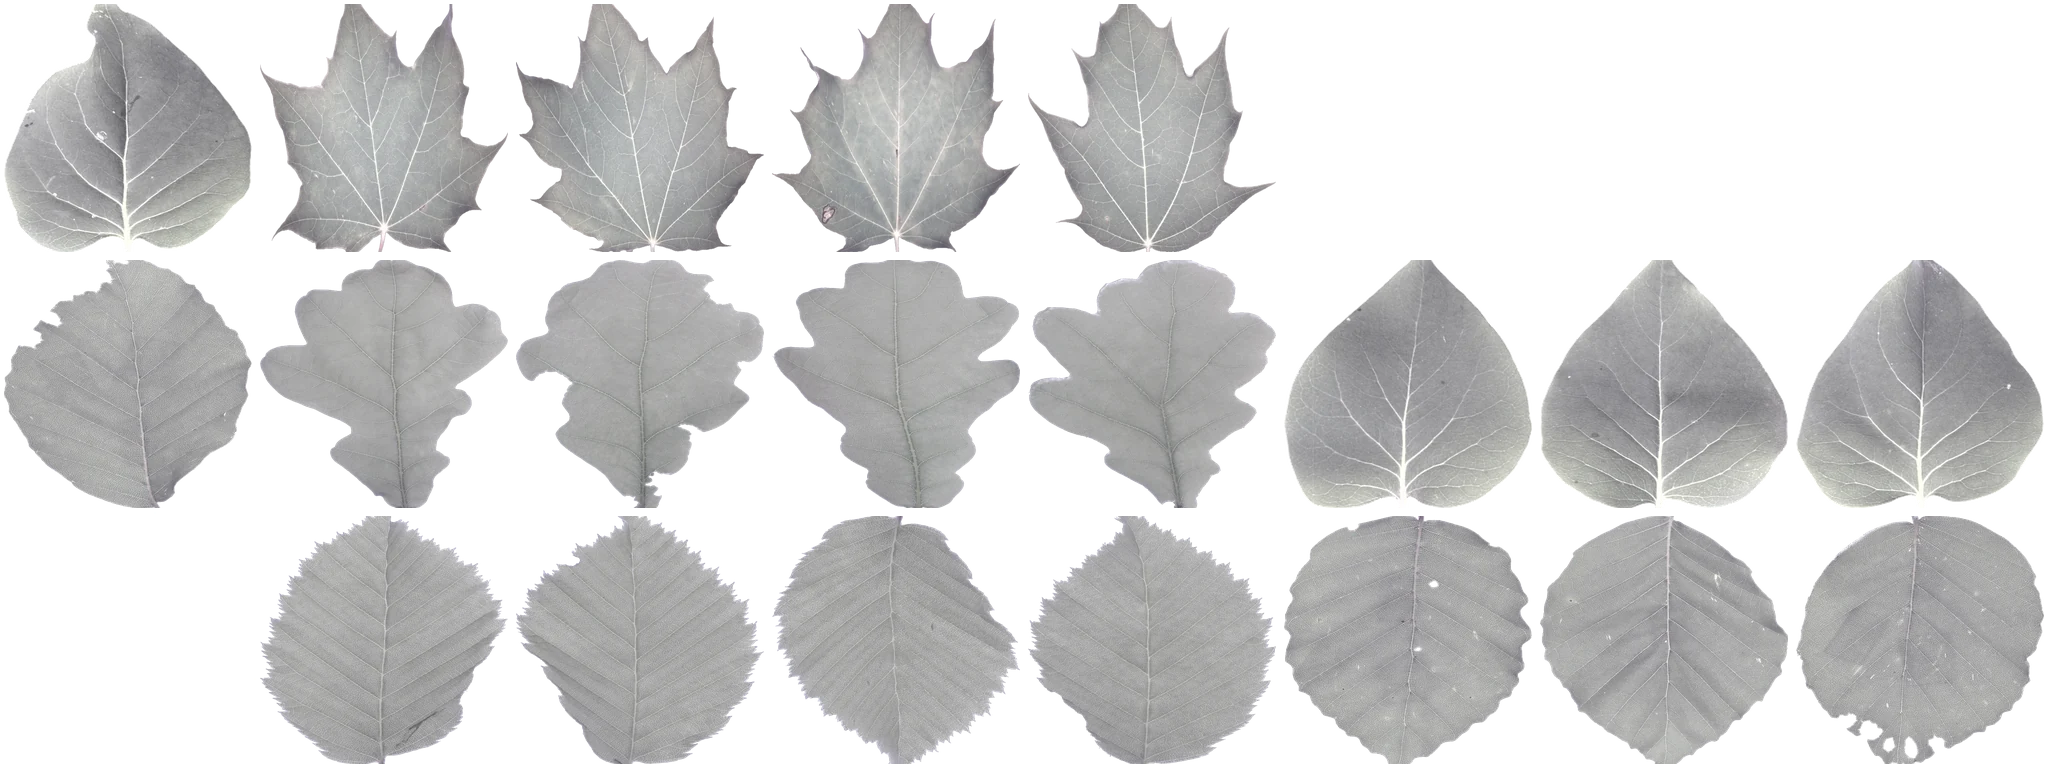
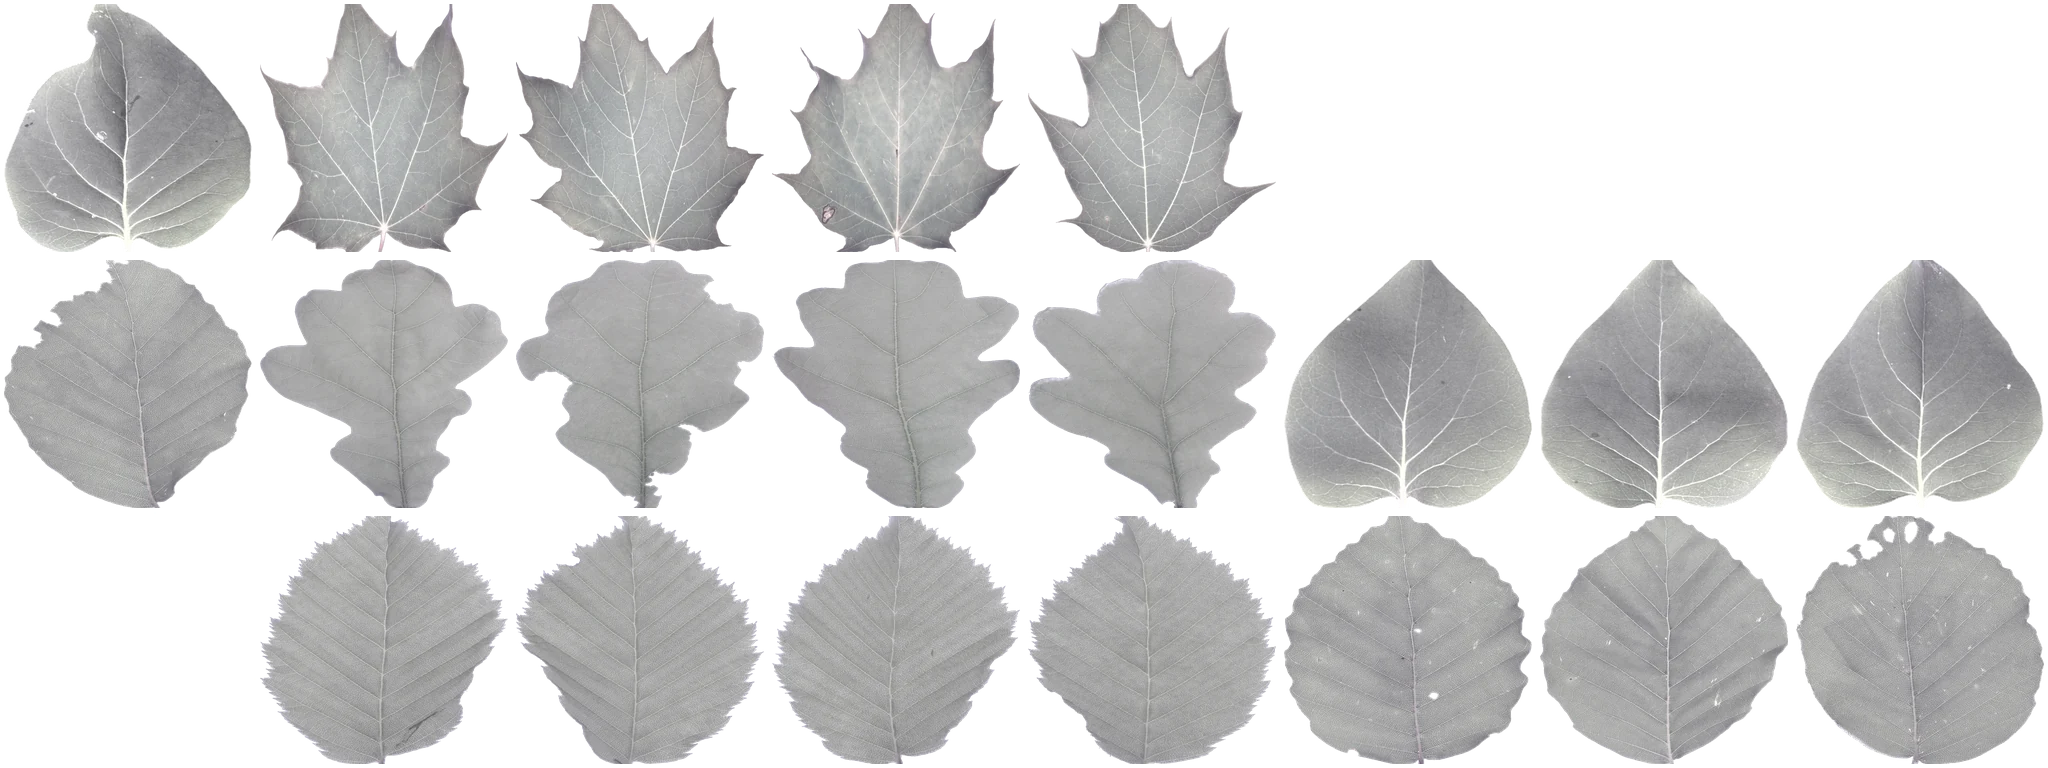
Orient scanned leaves by blade shape, not by stem position
Claude-Session: https://claude.ai/code/session_01Qzh7AiU53rTc1oSXPabobr

diff --git a/scripts/assets/leaf_atlas.py b/scripts/assets/leaf_atlas.py
@@ -29,9 +29,13 @@ for shape, num in SETS.items():
         w = (m > 0.5).sum(1); lim = 0.09 * w.max()
         rows = np.where(w > lim)[0]
         top, bot = rows.min(), rows.max() + 1
-        stem_bottom = (m.shape[0] - bot) >= top  # řapík je na té straně, kde se odřízlo víc
         m, c = m[top:bot], c[top:bot]
-        if not stem_bottom: m, c = m[::-1], c[::-1]
+        # orientace podle tvaru: list je nejširší blíž k bázi (u dubu naopak blíž ke špičce);
+        # báze má být dole, tedy těžiště plochy v dolní polovině (u dubu v horní)
+        wr = (m > 0.5).sum(1).astype(np.float32)
+        centroid = (wr * np.arange(len(wr))).sum() / wr.sum() / len(wr)
+        base_low = centroid > 0.5
+        if base_low == (shape == 'lobed'): m, c = m[::-1], c[::-1]
         cols_ = np.where((m > 0.5).sum(0) > 0)[0]
         m, c = m[:, cols_.min():cols_.max() + 1], c[:, cols_.min():cols_.max() + 1]
         # barva: jas srovnat na střední šedou, z odstínu nechat čtvrtinu
